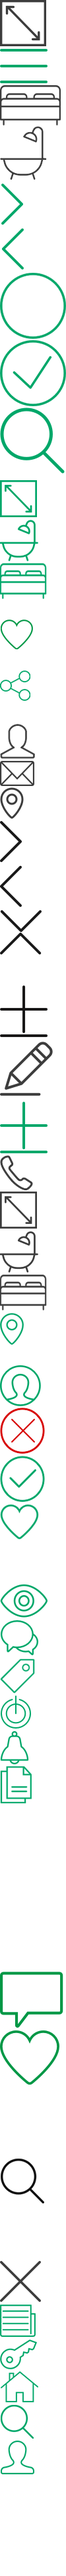
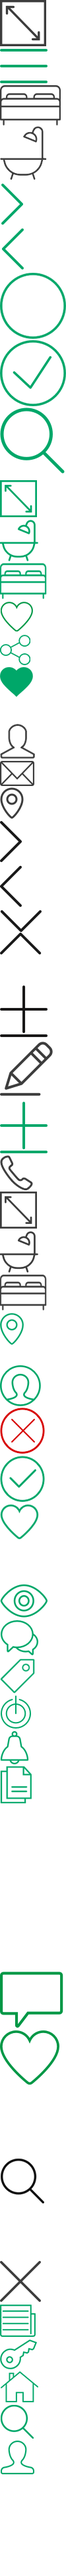
update detail listing

Changed region(s): [[0.0, 0.2172, 0.51, 0.2792]]

diff --git a/apps/metvuong/frontend/web/themes/mv_mobile1/resources/css/style.css b/apps/metvuong/frontend/web/themes/mv_mobile1/resources/css/style.css
@@ -1982,7 +1982,7 @@ label {
 }
 .icon-share-td {
     display: inline-block;
-    background-position: 0 -507px;
+    background-position: 0 -480px;
     background-size: 50px 1950px;
     width: 24px;
     height: 24px;
@@ -1991,13 +1991,14 @@ label {
 }
 .save-item {
     display: inline-block;
-    background-position: 0 -469px;
+    background-position: 0 -455px;
     background-size: 50px 1950px;
     width: 25px;
     height: 23px;
 }
 .save-item.active {
-    
+    background-position: 0px -505px;
+    background-size: 50px 1950px;
 }
 .btn-common {
     border: none;
